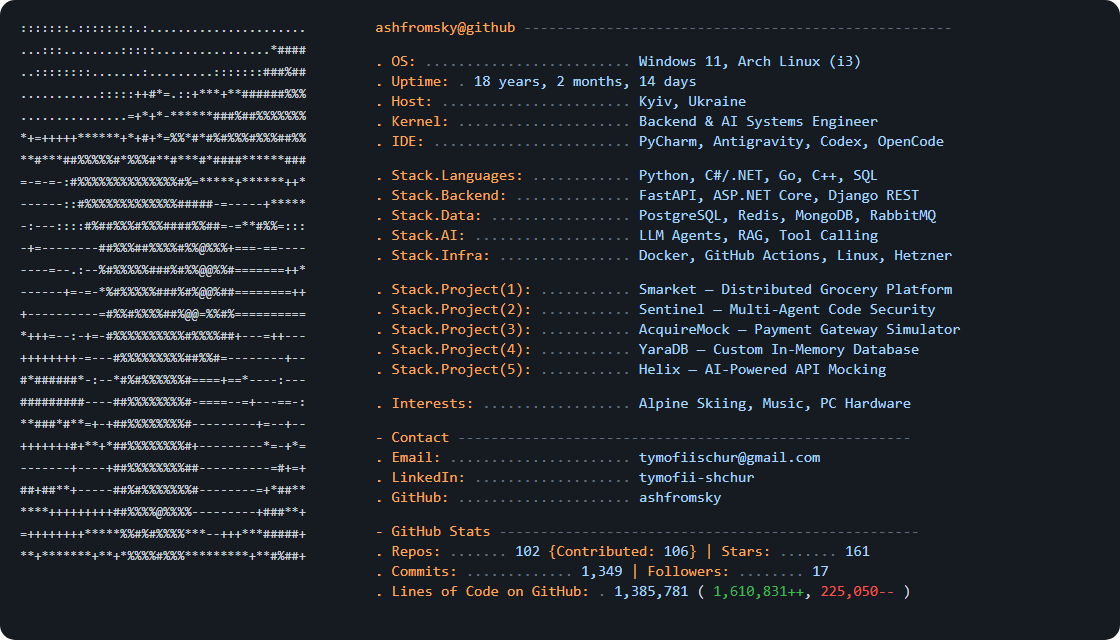
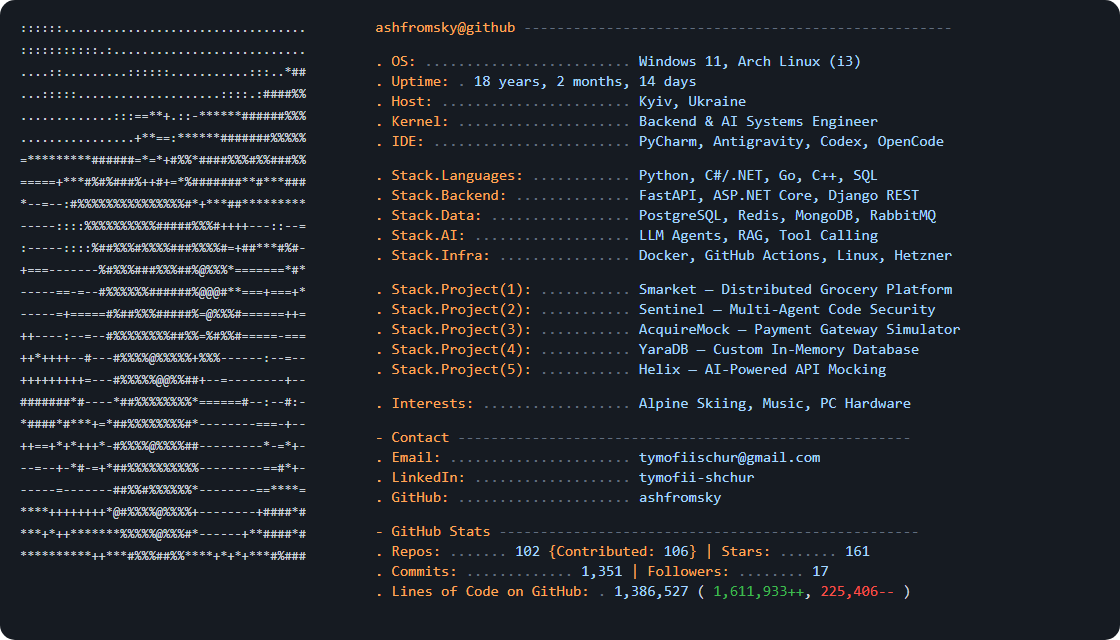
feat(profile): update ASCII art artwork and SVG previews

diff --git a/scripts/apply_new_ascii.py b/scripts/apply_new_ascii.py
@@ -1,0 +1,71 @@
+import html
+
+RAW_ASCII = """:::::::..............................................
+::::::::::::::.:.....................................
+:::::::::......:::::::::............................:
+.....::............::::::::...............::::...*##%
+...:::::::...........................:::::.::#####%%%
+:::::::::..:::::::::::-*--:::::::::::::::..##*######%
+.................:::-==*+*+..::-+*******#########%%%%
+....................*+**+==:********##########%%%%%%%
+................::++=##*#%-+*****###%#%#%%%%%%%%%%%%%
+=************#######%=*=+*+#%%%**###%#%%%%#%%%####%%%
+====+=+*#**#%%#%%###%%++##+=+*%##########**#*****####
+++*+*#**#%#%%%%%*#%#%%%%###%#*+*###**+***************
+*--==--::#%%%%%%#%%%%%%%%%%%%%#*++****##*************
+-------:::#%%%%%%%%%%%%%%%%%%%####*-----++*.=*****+**
+------:::::%%%%%%%%%%%%%#######%%%%#*+++*+----:::--=+
+:------:::::#%##%%%%%#%%#%%####%%%%%+#=+=##****#%%#-:
+:--------:---+##%%%%%##%%%=%###%%%%%*%=======++*#####
++====---------%#%%%%%####%%%%##%%@%%%%*=========+*#*#
+------===-=---#%#%%%%%%#####%##%@@@@%#**=====+====+**
+--------+===--*%%#%%%%%%%#*##%#%%@@%####=========++++
+------=+=======#%%##%%%%%######%@=@%@%%#=========++=+
+++-----:---==--#%%%%#%%%%%%###%%%=%#%%%#=======-=====
+**+++----:-++=--#%%%%%%%%%%%%%#%#%%%#%%-=----====----
+++*+++++---#*---##%%%%%@@%%%%%%+%%%%%--------:---=---
+++++=++++++=-----#%%%%%%@@@%%%###+---=-----------+--=
+#*+*#######-:---=###%%%#%%%%%%%#======-+==-:::::-+---
+########**#------*##%%%%%%%%%%%*+========#---:--:#:--
+###########--=::+#%%%%%%%%%%%%#*---------=*+----==:-:
+*#####*##***=+=*###%%%%%%%%%%%#*-----------====-*+---
+++==++*++*++++*-##%%%%%@%%%%%%##------------=*-=-*+-=
++++++++++#++*+++*###%%%@%%%%%###------------==++*#*=-
+--=---+--*#-==+**##%%%%%%%%%%%%%*-----------===#**+-=
+------=----------##%#%#%%%%%%%%*%----------===*****=*
+***#######*#####*###%##%@@%%%%##-----------=+###+##*+
+****+++++++++++*+@#%%%%%%@%%#%%+-----------+*#####*#=
+***+**+++*********%%%%%%%@%%%%#**-------=+***#####*#+
+*++*+****++********%%%####%%%%******++****#*#########
+*************++****#%%%%%##%%%*****+**+**+**#*#%####*
+............:::::---%%%%%%#%%%+++++++===============+"""
+
+lines = RAW_ASCII.strip().split("\n")
+print(f"Total lines: {len(lines)}")
+print(f"Max width: {max(len(l) for l in lines)}")
+
+# Downscale to 25 lines x 40 columns
+step_y = len(lines) / 25.0
+max_w = max(len(l) for l in lines)
+step_x = max_w / 40.0
+
+downscaled = []
+for i in range(25):
+    y_idx = int(i * step_y)
+    line = lines[min(y_idx, len(lines)-1)]
+    row_chars = []
+    for j in range(40):
+        x_idx = int(j * step_x)
+        char = line[min(x_idx, len(line)-1)] if x_idx < len(line) else " "
+        row_chars.append(char)
+    downscaled.append("".join(row_chars))
+
+escaped = [html.escape(l) for l in downscaled]
+
+with open("assets/ascii_dark.txt", "w", encoding="utf-8") as f:
+    f.write("\n".join(escaped))
+
+with open("assets/ascii_light.txt", "w", encoding="utf-8") as f:
+    f.write("\n".join(escaped))
+
+print("New downscaled ASCII applied successfully!")
